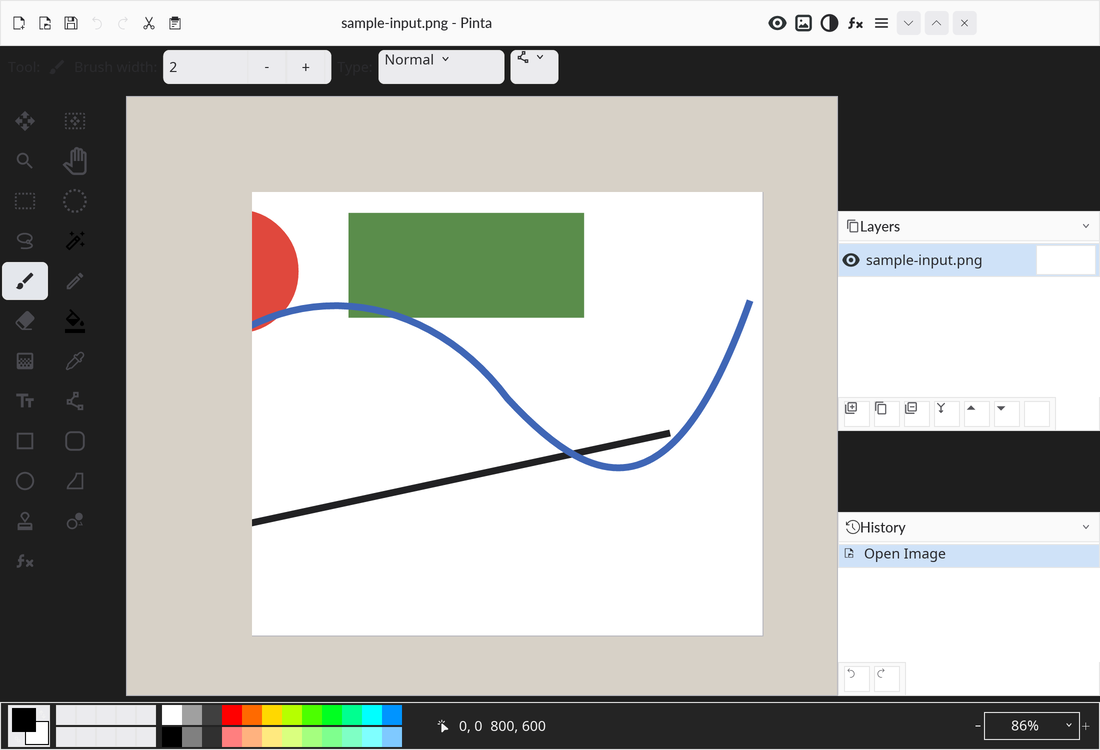
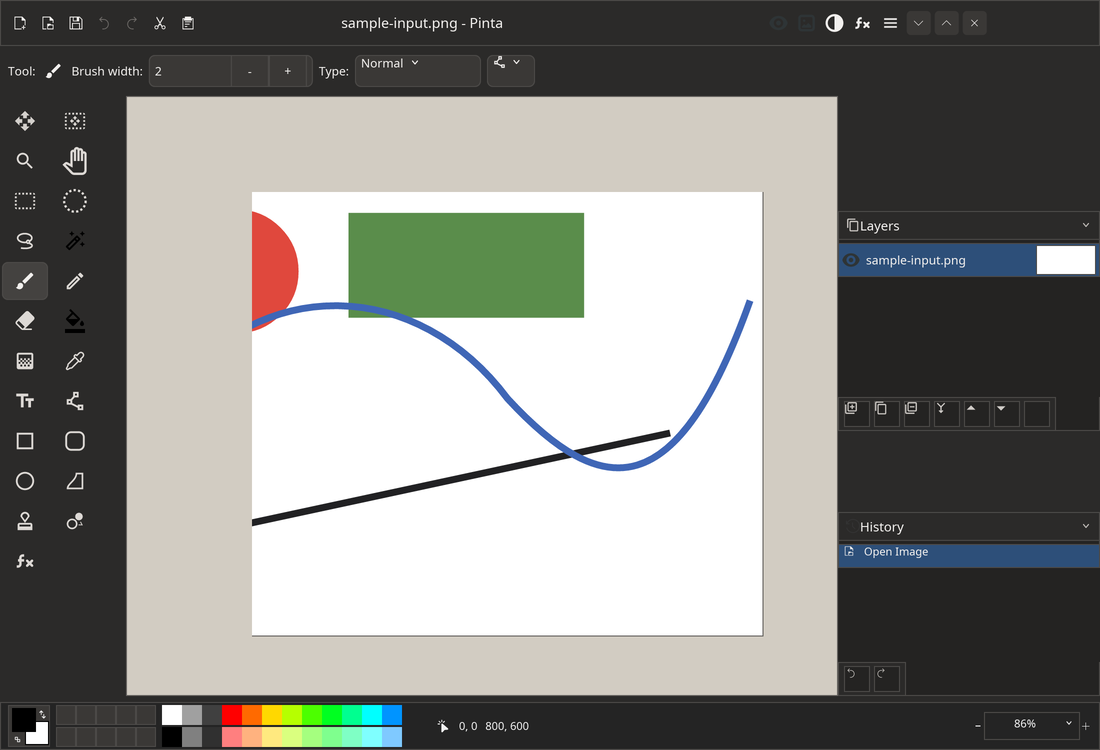
Retune shell UI parity

diff --git a/crates/pinta-ui/src/widgets/shell.rs b/crates/pinta-ui/src/widgets/shell.rs
@@ -66,7 +66,7 @@ pub fn title_bar<'a, Message: 'a>(
             leading,
             container(
                 text(format!("{} - Pinta", model.document_title))
-                    .size(theme.typography.toolbar)
+                    .size(theme.typography.title)
                     .font(theme.typography.ui_medium())
                     .color(theme.colors.text_primary),
             )
@@ -88,26 +88,28 @@ pub fn title_bar<'a, Message: 'a>(
     .into()
 }
 
+fn toolbar_label<'a, Message: 'a>(theme: &'a PintaTheme, label: &'a str) -> Element<'a, Message> {
+    container(
+        text(label)
+            .size(theme.typography.toolbar)
+            .font(theme.typography.ui_regular())
+            .color(theme.colors.text_primary),
+    )
+    .center_y(Length::Fill)
+    .into()
+}
+
 pub fn tool_options_bar<'a, Message: 'a>(
     theme: &'a PintaTheme,
     model: ToolOptionsBar<'a>,
 ) -> Element<'a, Message> {
     container(
         row![
-            text(model.tool_label)
-                .size(theme.typography.toolbar)
-                .font(theme.typography.ui_regular())
-                .color(theme.colors.text_primary),
+            toolbar_label(theme, model.tool_label),
             toolbar_icon(theme, model.tool_icon, false),
-            text(model.value_label)
-                .size(theme.typography.toolbar)
-                .font(theme.typography.ui_regular())
-                .color(theme.colors.text_primary),
+            toolbar_label(theme, model.value_label),
             segmented_value(theme, model.value),
-            text(model.mode_label)
-                .size(theme.typography.toolbar)
-                .font(theme.typography.ui_regular())
-                .color(theme.colors.text_primary),
+            toolbar_label(theme, model.mode_label),
             dropdown_chip(theme, model.mode_value, model.mode_width),
             icon_dropdown_chip(theme, model.shape_icon, model.shape_width),
         ]
@@ -207,8 +209,8 @@ fn toolbar_icon<'a, Message: 'a>(
     };
 
     container(icon::view(icon_kind, 19.0, 19.0, icon_color))
-        .width(Length::Fixed(22.0))
-        .height(Length::Fixed(22.0))
+        .width(Length::Fixed(24.0))
+        .height(Length::Fixed(24.0))
         .align_x(Horizontal::Center)
         .align_y(Vertical::Center)
         .into()
@@ -247,8 +249,8 @@ fn segmented_value<'a, Message: 'a>(theme: &'a PintaTheme, value: u32) -> Elemen
         ]
         .align_y(Alignment::Center),
     )
-    .width(Length::Fixed(168.0))
-    .height(Length::Fixed(34.0))
+    .width(Length::Fixed(164.0))
+    .height(Length::Fixed(32.0))
     .padding([0.0, theme.spacing.sm])
     .style(move |_| {
         container::Style::default()
@@ -270,7 +272,7 @@ fn stepper_button<'a, Message: 'a>(theme: &'a PintaTheme, label: &'a str) -> Ele
             .font(theme.typography.ui_medium())
             .color(theme.colors.text_primary),
     )
-    .width(Length::Fixed(26.0))
+    .width(Length::Fixed(28.0))
     .center(Length::Fill)
     .style(move |_| {
         container::Style::default()
@@ -296,7 +298,7 @@ fn dropdown_chip<'a, Message: 'a>(
         .align_y(Alignment::Center),
     )
     .width(Length::Fixed(width))
-    .height(Length::Fixed(34.0))
+    .height(Length::Fixed(32.0))
     .padding([0.0, theme.spacing.sm])
     .style(move |_| {
         container::Style::default()
@@ -325,7 +327,7 @@ fn icon_dropdown_chip<'a, Message: 'a>(
         .align_y(Alignment::Center),
     )
     .width(Length::Fixed(width))
-    .height(Length::Fixed(34.0))
+    .height(Length::Fixed(32.0))
     .padding([0.0, theme.spacing.sm])
     .style(move |_| {
         container::Style::default()

diff --git a/crates/pinta-theme/src/tokens/colors.rs b/crates/pinta-theme/src/tokens/colors.rs
@@ -29,24 +29,24 @@ pub struct Colors {
 impl Default for Colors {
     fn default() -> Self {
         Self {
-            window_bg: Color::from_rgb8(0x1E, 0x1E, 0x1E),
-            toolbar_bg: Color::from_rgb8(0xFA, 0xFA, 0xFA),
-            sidebar_bg: Color::from_rgb8(0x1E, 0x1E, 0x1E),
-            panel_bg: Color::from_rgb8(0xFF, 0xFF, 0xFF),
-            panel_header_bg: Color::from_rgb8(0xFA, 0xFA, 0xFA),
-            canvas_surround_bg: Color::from_rgb8(0xD7, 0xD1, 0xC7),
+            window_bg: Color::from_rgb8(0x2B, 0x2A, 0x29),
+            toolbar_bg: Color::from_rgb8(0x2B, 0x2A, 0x29),
+            sidebar_bg: Color::from_rgb8(0x2B, 0x2A, 0x29),
+            panel_bg: Color::from_rgb8(0x24, 0x23, 0x22),
+            panel_header_bg: Color::from_rgb8(0x2B, 0x2A, 0x29),
+            canvas_surround_bg: Color::from_rgb8(0xD2, 0xCC, 0xC2),
             canvas_page_bg: Color::from_rgb8(0xFF, 0xFF, 0xFF),
-            border_subtle: Color::from_rgb8(0xE6, 0xE6, 0xE6),
-            border_strong: Color::from_rgb8(0xB9, 0xB9, 0xBF),
-            text_primary: Color::from_rgb8(0x2A, 0x2A, 0x2D),
-            text_muted: Color::from_rgb8(0x6E, 0x6E, 0x75),
-            icon_subtle: Color::from_rgb8(0x4A, 0x4A, 0x50),
-            icon_disabled: Color::from_rgba8(0x6E, 0x6E, 0x75, 0.22),
-            panel_icon: Color::from_rgb8(0x55, 0x55, 0x5A),
-            hover_bg: Color::from_rgb8(0xEB, 0xEB, 0xEE),
-            selected_bg: Color::from_rgb8(0xCF, 0xE2, 0xF8),
-            toolbox_selected_bg: Color::from_rgb8(0xE4, 0xE7, 0xEC),
-            toolbox_hover_bg: Color::from_rgb8(0xEF, 0xF0, 0xF3),
+            border_subtle: Color::from_rgb8(0x4C, 0x4A, 0x48),
+            border_strong: Color::from_rgb8(0x66, 0x63, 0x60),
+            text_primary: Color::from_rgb8(0xF2, 0xF0, 0xEE),
+            text_muted: Color::from_rgb8(0xBC, 0xB8, 0xB4),
+            icon_subtle: Color::from_rgb8(0xDD, 0xD9, 0xD5),
+            icon_disabled: Color::from_rgb8(0x6F, 0x6C, 0x69),
+            panel_icon: Color::from_rgb8(0xD0, 0xCC, 0xC8),
+            hover_bg: Color::from_rgb8(0x3A, 0x38, 0x36),
+            selected_bg: Color::from_rgb8(0x2D, 0x4F, 0x79),
+            toolbox_selected_bg: Color::from_rgb8(0x44, 0x42, 0x40),
+            toolbox_hover_bg: Color::from_rgb8(0x34, 0x32, 0x30),
             status_bg: Color::from_rgb8(0x24, 0x24, 0x24),
             status_fg: Color::from_rgb8(0xF2, 0xF2, 0xF2),
             checker_light: Color::from_rgb8(0xF4, 0xF4, 0xF4),

diff --git a/crates/pinta-theme/src/tokens/typography.rs b/crates/pinta-theme/src/tokens/typography.rs
@@ -16,10 +16,10 @@ impl Default for Typography {
     fn default() -> Self {
         Self {
             title: 14.0,
-            panel_title: 14.0,
-            body: 14.0,
-            caption: 14.0,
-            toolbar: 14.0,
+            panel_title: 13.0,
+            body: 12.0,
+            caption: 11.0,
+            toolbar: 12.0,
         }
     }
 }

diff --git a/README.md b/README.md
@@ -10,13 +10,13 @@
 - The current screenshot in this README is copied from the latest workspace-root mock window capture produced by the parity tooling.
 - The paired upstream workspace was instrumented with diagnostics and screenshot hooks so the Rust mock can be compared against a real Pinta build instead of guessing from static screenshots.
 - The latest footer pass added real status-bar palette behavior, a stacked foreground/background color control, and a visible 24-color subset derived from upstream Pinta defaults.
-- The latest typography pass keeps the explicit `Noto Sans` family used for GTK parity on this machine without coupling that choice to unrelated widget palette changes.
-- The latest canvas/layout pass now keeps the zoomed canvas at full scale and clips the visible viewport when width is reduced, instead of shrinking the page to fit.
-- Version `0.1.13` is the current workspace release snapshot, published through GitHub Releases rather than checked-in release artifacts.
+- The latest shell pass retunes the title bar, tool options, dock chrome, and palette controls toward the upstream dark GTK layout, with tighter centering and smaller control text where appropriate.
+- The latest canvas/layout pass keeps the zoomed canvas at full scale and clips the visible viewport when width is reduced, instead of shrinking the page to fit.
+- Version `0.1.14` is the current workspace release snapshot, published through GitHub Releases rather than checked-in release artifacts.
 
-## Release 0.1.13
+## Release 0.1.14
 
-- Git tag: `0.1.13`
+- Git tag: `0.1.14`
 - Release distribution: GitHub Releases for this repository
 - Resume notes for future LLM sessions: `VIBE_NOTES.md`
 

diff --git a/VIBE_NOTES.md b/VIBE_NOTES.md
@@ -10,7 +10,7 @@ This file exists to resume the VIBE-coded Rust port mock of Pinta without needin
 
 ## Current Baseline
 
-- Workspace version: `0.1.13`
+- Workspace version: `0.1.14`
 - Branch: `main`
 - Upstream reference capture session: `../upstream-diagnostics-output/20260421-025520/`
 - Current mock diagnostics session: `../pinta-rs-diagnostics-output/20260421-025520/`
@@ -104,6 +104,10 @@ Do not write logs, screenshots, crops, or compare outputs under `pinta-rs/` or `
   - right-sidebar and status-bar shell darkening that materially reduced the control RMSE scores,
   - explicit `Noto Sans` UI typography for GTK-font parity without changing the palette path,
   - canvas viewport inset math and tests plus zoomed-surface clipping so narrow window widths stop rescaling the page and instead crop the visible viewport like upstream.
+- The current pass also added:
+  - a darker title bar and dock chrome aligned with upstream's GTK styling,
+  - smaller toolbar/control typography and tighter control heights for better vertical centering,
+  - darker control fill, hover, and selection tokens so the mock no longer reads as a light app shell.
 - A later `19x19` footer tightening experiment regressed parity and was intentionally backed out; keep the current 24-color footer geometry unless a new pass measures better.
 
 ## Next Resume Steps
